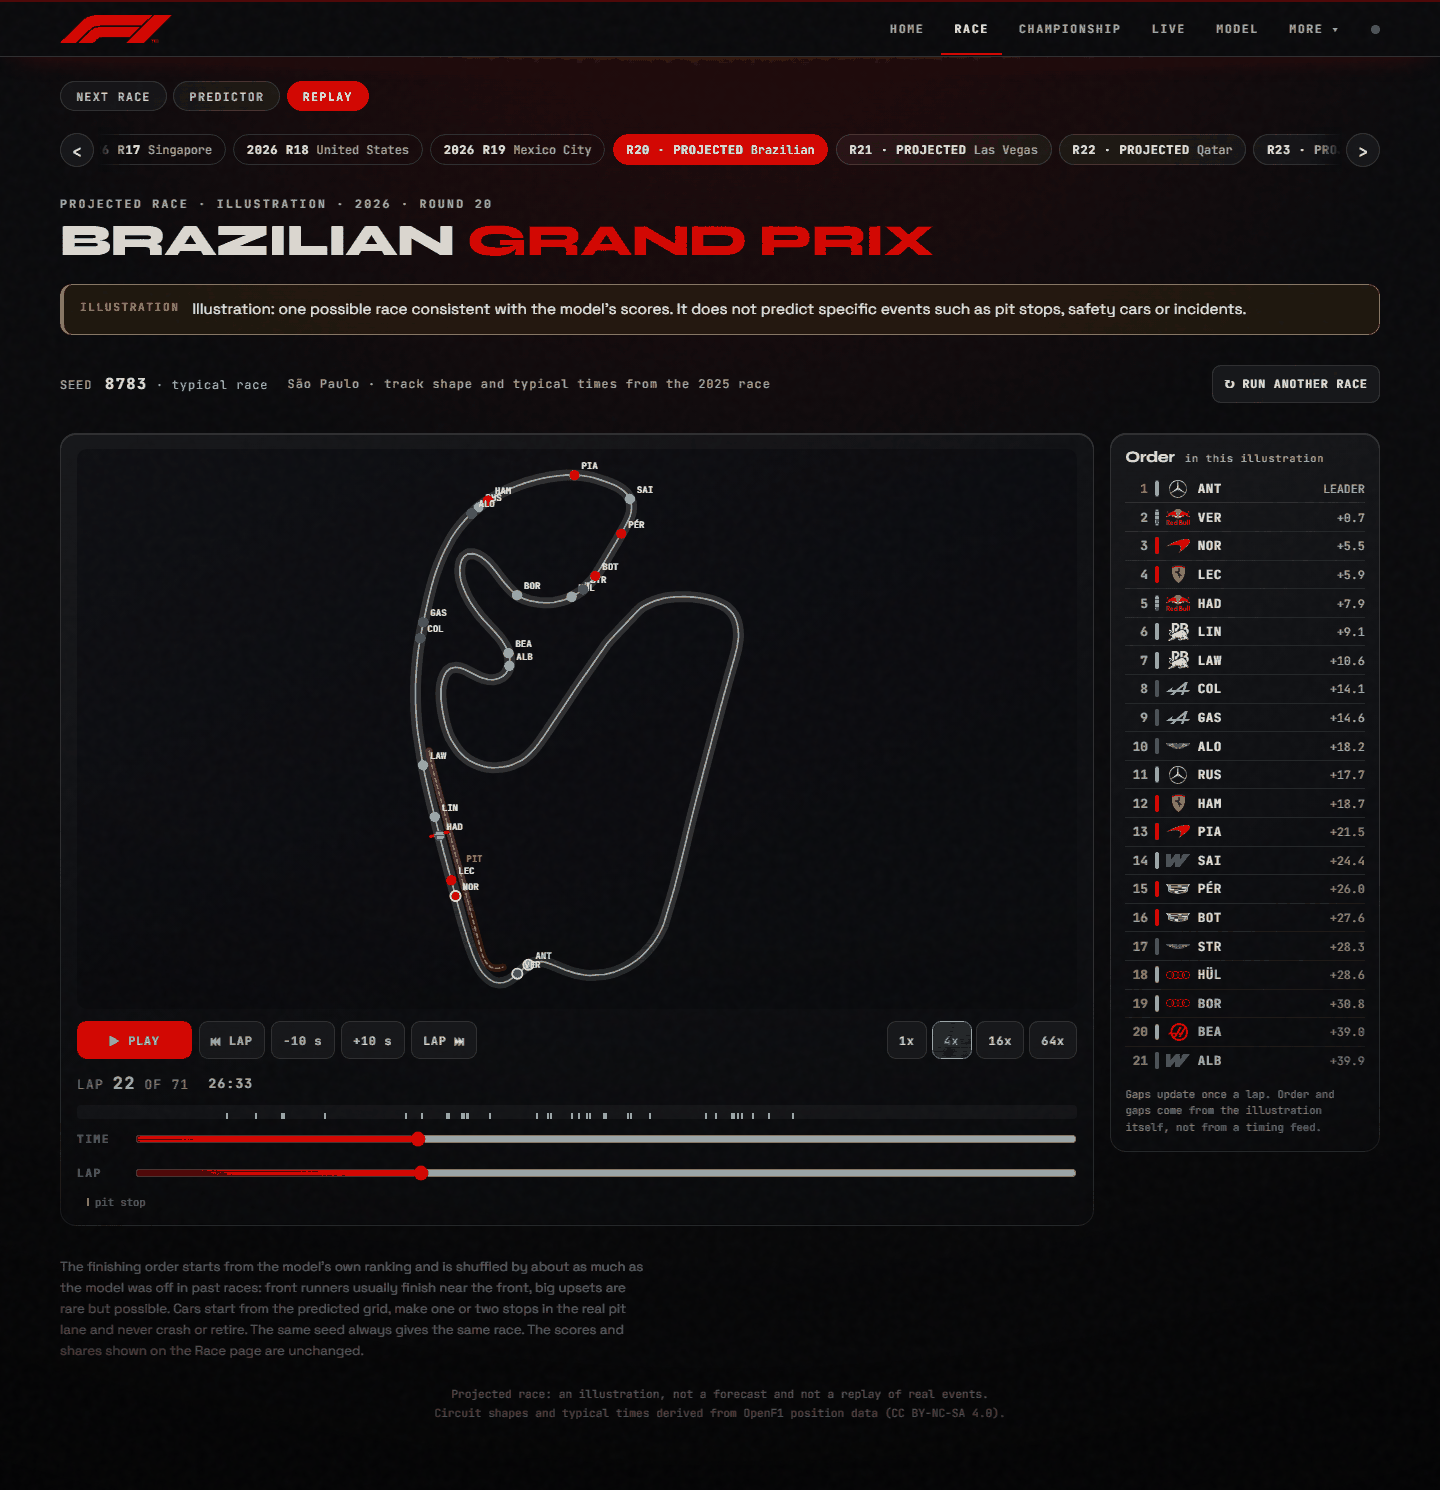
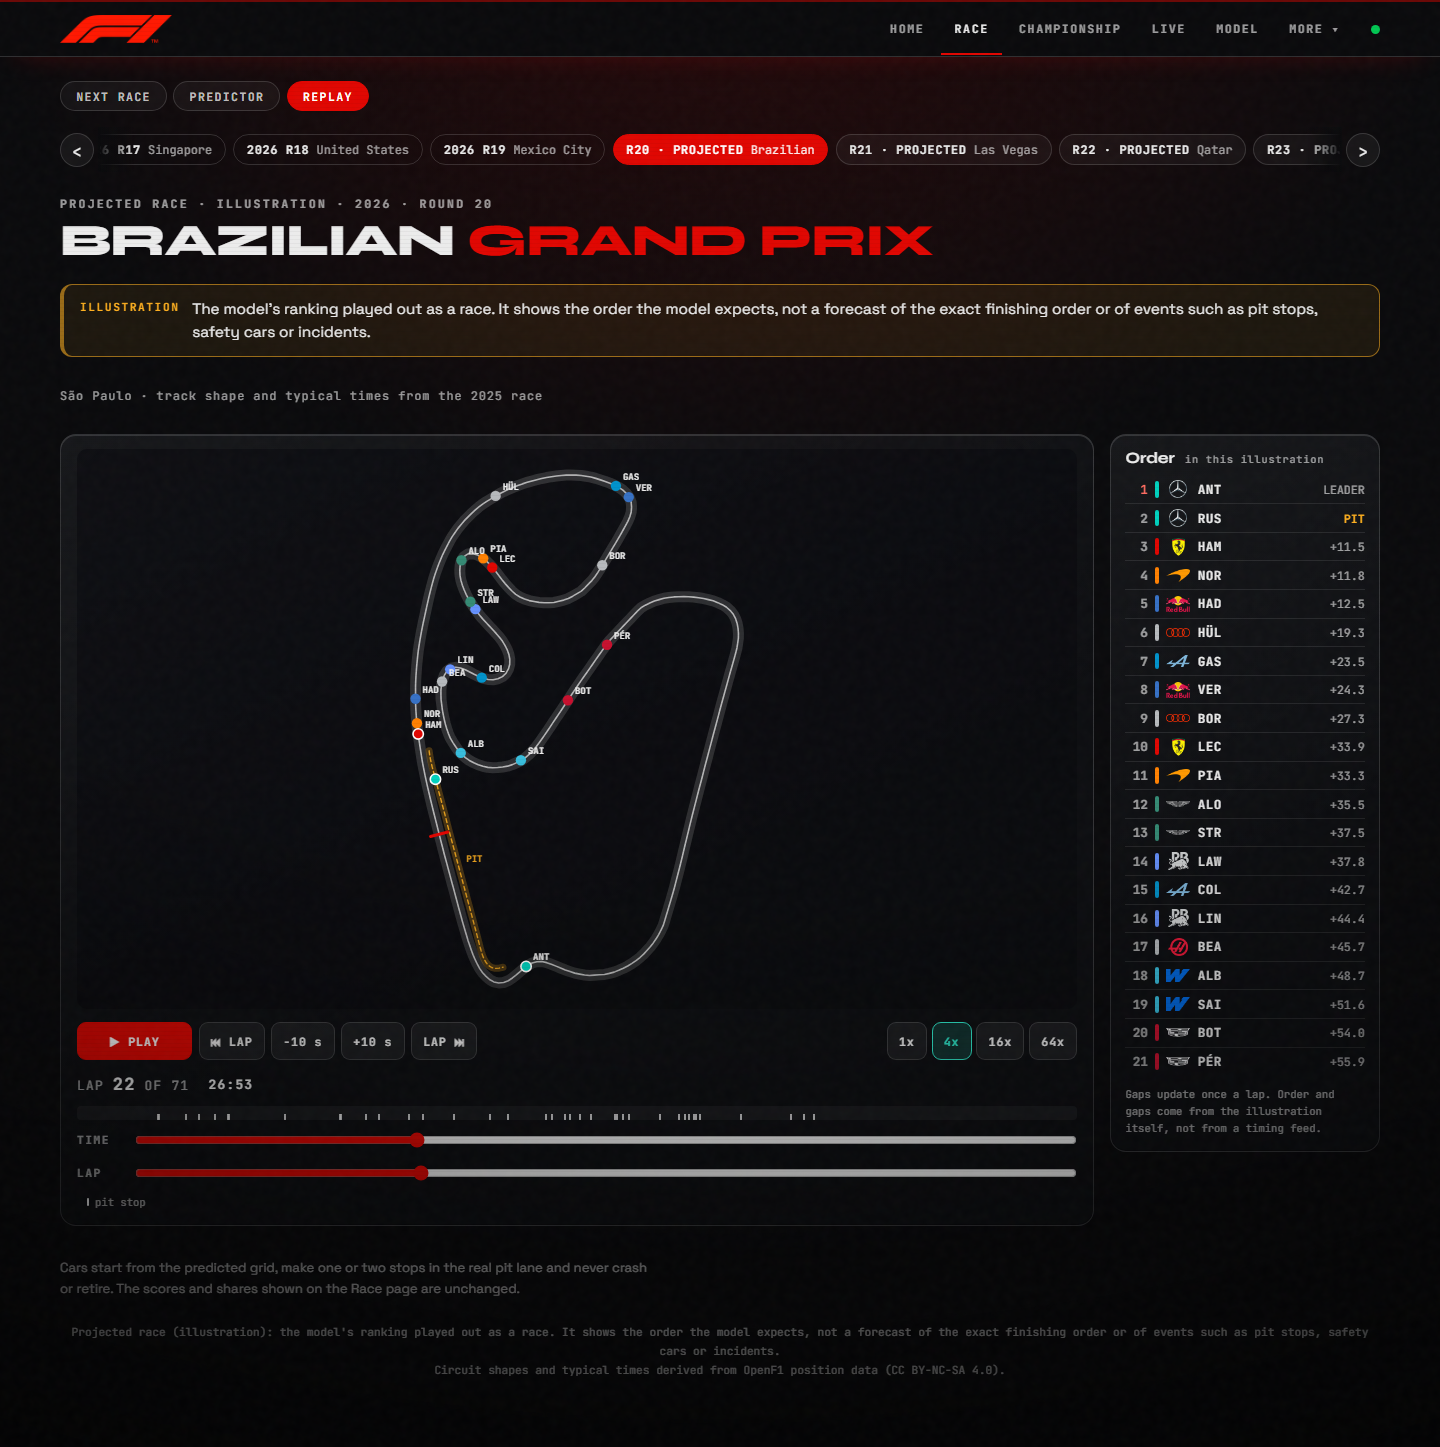
feat(projected): play out the model's order (Race page table order); drop seed, 'run another race' and 'typical race'; new copy

diff --git a/frontend/src/lib/projectedRace.js b/frontend/src/lib/projectedRace.js
@@ -1,14 +1,18 @@
 // "Projected race": ONE illustrative race on a real circuit, built in the browser from a circuit pack, the predicted grid and the
 // model's existing scores. It returns the replay file format (see backend/scripts/build_replay.py) so the same player draws it.
 //
-// This is an illustration, not a forecast. Nothing here changes a score or a share, and nothing in the output is shown as a probability.
+// NOTE: the site now plays out the model's own order (finishOrder = the Race page table order, see projectedInputs.js) with DEFAULT_SEED.
+// The random draw below (rankAnchoredOrder, drawnOrder, typicalSeed, randomSeed, DRAW_PARAMS) is kept but UNUSED by the site, so a
+// "run another race" mode can come back later. It is still covered by the unit tests.
+//
+// This is an illustration, not a forecast. Nothing here changes a score or a share, and nothing in the output is shown as a percentage.
 // What is drawn: dots running lap by lap from the predicted grid, a finishing order drawn from the model's scores, 1-2 pit stops on the
 // real pit-lane path, lapped cars at the back. What is NOT modelled: crashes, retirements, safety cars, red flags, weather, penalties.
 //
 // How the finishing order is drawn (rank-anchored): start from the model's own ranking for the race (the highest win score takes P1, the rest
 // follow by podium score), add noise to each rank whose size comes from the model's real backtest errors for that rank (a place or two
 // most of the time, now and then a big upset), and sort. So front runners usually finish near the front, big upsets are rare but possible, and the back of the
-// field stays at the back. Drivers with no model score are not simulated. The scores are used for the ranking only; nothing is shown as a probability.
+// field stays at the back. Drivers with no model score are not simulated. The scores are used for the ranking only; nothing is shown as a percentage.
 // (An earlier draw weighted every driver by its scores plus a floor and was too flat below the top six: see analysis/25_projected_draw_compare.mjs.)
 //
 // How the race is shaped: finishing times are fixed first (the drawn order plus random gaps, some cars lapped). Each driver's race pace is
@@ -28,7 +32,10 @@ const PIT_MPS = 21;               // pit lane speed limit, m/s (about 75 km/h)
 const AFTER = 0.8;                // fraction of a lap a car cruises after its flag, then parks
 
 /** Shown with every projected race. */
-export const PROJECTED_LABEL = "Illustration: one possible race consistent with the model's scores. It does not predict specific events such as pit stops, safety cars or incidents.";
+export const PROJECTED_LABEL = "The model's ranking played out as a race. It shows the order the model expects, not a forecast of the exact finishing order or of events such as pit stops, safety cars or incidents.";
+
+/** The projected race always uses this seed (it only varies gaps, stops and pace noise, never the finishing order). */
+export const DEFAULT_SEED = 1;
 
 // ── seeded randomness
 export const mulberry32 = (seed) => {
@@ -198,9 +205,11 @@ const quantileSample = (q, u) => {                 // inverse CDF through (0.1, 
  * @param grid   [{ code, name, team, colour, number? }] in predicted grid order (pole first)
  * @param scores { [code]: { win, podium } } the model's existing scores; drivers without a finite podium score are not simulated
  * @param seed   integer; the same seed gives the same race
+ * @param finishOrder optional driver codes in finishing order (the Race page table order). When given, the race ends in exactly this order;
+ *                    when omitted the order is drawn (rankAnchoredOrder, currently unused by the site)
  * @returns the replay file object (format v1) plus `race.projected` = { seed, order, ... }
  */
-export const generateProjectedRace = (pack, grid, scores, seed) => {
+export const generateProjectedRace = (pack, grid, scores, seed, finishOrder = null) => {
   if (!pack?.pit) throw new Error("This circuit pack has no pit lane path");
   const rnd = mulberry32(seed);
   const tr = buildTrack(pack), V = tr.V, K = pack.laps, L = tr.L, Z = tr.zones.length;
@@ -210,9 +219,14 @@ export const generateProjectedRace = (pack, grid, scores, seed) => {
   const lapRef = pack.lap_s * (1 + 0.008 * normal(rnd));
   const loss0 = Math.min(30, Math.max(12, pack.pit_loss_s ?? 21));
 
-  // 1. finishing order drawn from the model's scores
+  // 1. finishing order: the model's table order when given, otherwise drawn from the model's scores
   const codes = racers.map((r) => r.code);
-  const order = rankAnchoredOrder(codes, scores, rnd);                 // order[p] = racer index finishing in place p+1
+  const drawn = rankAnchoredOrder(codes, scores, rnd);                 // always drawn, so the rest of the random stream is the same either way
+  let order = drawn;                                                   // order[p] = racer index finishing in place p+1
+  if (finishOrder) {
+    order = finishOrder.filter((c) => codes.includes(c)).map((c) => codes.indexOf(c));
+    if (order.length !== N || new Set(order).size !== N) throw new Error("The finishing order must list every simulated driver once");
+  }
   const place = new Array(N); order.forEach((c, p) => { place[c] = p; });
 
   // 2. finishing gaps: who is lapped, and the target time of each car's last crossing

diff --git a/frontend/src/components/ProjectedRace.jsx b/frontend/src/components/ProjectedRace.jsx
@@ -1,11 +1,10 @@
-import { useMemo, useState } from "react";
+import { useMemo } from "react";
 import Panel from "./DashPanel.jsx";
 import ReplayPlayer from "./ReplayPlayer.jsx";
 import { SkeletonList } from "../shared.jsx";
 import { useRaceRows } from "../lib/useRaceRows.js";
 import { usePackIndex, usePack, useProjectedRace } from "../lib/useProjectedRace.js";
-import { randomSeed, typicalSeed, PROJECTED_LABEL } from "../lib/projectedRace.js";
-import { inputsFromRows } from "../lib/projectedInputs.js";
+import { DEFAULT_SEED, PROJECTED_LABEL } from "../lib/projectedRace.js";
 import "../pages/replay.css";
 
 const Unavailable = ({ title = "Projected race not available", children }) => (
@@ -14,10 +13,9 @@ const Unavailable = ({ title = "Projected race not available", children }) => (
   </Panel>
 );
 
-// One illustrative race for an upcoming round, drawn in the browser from the model's existing scores and replayed by the same player as
+// One illustrative race for an upcoming round, played out in the browser in the order of the Race page table and replayed by the same player as
 // the recorded races. Nothing here is a forecast and no score or share on the site is changed by it.
 const ProjectedRace = ({ race }) => {
-  const [picked, setPicked] = useState(null);                  // null = the typical race for these scores
   const index = usePackIndex();
   const entry = index.status === "ready" ? index.circuits[race.circuitRef] || null : null;
   const packState = usePack(entry);
@@ -25,14 +23,7 @@ const ProjectedRace = ({ race }) => {
   const { res, slow, retry } = useRaceRows(raceList);
   const rowsState = res[race.raceId];
   const rows = rowsState?.status === "ready" ? rowsState.rows : null;
-  const typical = useMemo(() => {
-    if (!rows) return null;
-    const { grid, scores } = inputsFromRows(rows);
-    const codes = grid.map((g) => g.code).filter((c) => Number.isFinite(scores[c].podium));
-    return codes.length > 1 ? typicalSeed(codes, scores) : null;
-  }, [rows]);
-  const seed = picked ?? typical ?? 1;
-  const { rep, error } = useProjectedRace(packState.pack, rows, seed);
+  const { rep, error } = useProjectedRace(packState.pack, rows, DEFAULT_SEED);
 
   if (index.status === "loading") return <SkeletonList rows={4} metrics={1} />;
   if (index.status === "unavailable") return <Unavailable>The circuit files are not available on this deployment (no replay location is configured, or it could not be reached). Nothing else is affected.</Unavailable>;
@@ -62,14 +53,11 @@ const ProjectedRace = ({ race }) => {
         <p>{PROJECTED_LABEL}</p>
       </div>
       <div className="pr-bar">
-        <span className="pr-seed">SEED <b>{seed}</b>{picked === null && <em> · typical race</em>}</span>
         <span className="pr-basis">{race.circuit} · track shape and typical times from the {entry.year} race</span>
-        <button type="button" className="rp-btn pr-again" onClick={() => setPicked(randomSeed())}>↻ RUN ANOTHER RACE</button>
       </div>
-      <ReplayPlayer key={`${race.raceId}-${seed}`} rep={rep} projected />
+      <ReplayPlayer key={race.raceId} rep={rep} projected />
       <p className="pr-how">
-        The finishing order starts from the model's own ranking and is shuffled by about as much as the model was off in past races: front runners usually finish near the front, big upsets are rare but possible.
-        Cars start from the predicted grid, make one or two stops in the real pit lane and never crash or retire. The same seed always gives the same race.
+        Cars start from the predicted grid, make one or two stops in the real pit lane and never crash or retire.
         The scores and shares shown on the Race page are unchanged.
       </p>
     </>

diff --git a/frontend/src/pages/replay.css b/frontend/src/pages/replay.css
@@ -67,20 +67,16 @@
 .rp-board li.nodata { opacity: 0.75; }
 .rp-board li.nodata em { color: #ffb020; font-weight: 700; font-size: 0.66rem; letter-spacing: 0.04em; }
 
-/* projected race: the always-visible illustration notice, seed row and method note */
+/* projected race: the always-visible illustration notice, basis row and method note */
 .pr-notice { display: flex; gap: 0.8rem; align-items: flex-start; padding: 0.8rem 1rem; border: 1px solid rgba(255, 176, 32, 0.55); border-left-width: 4px; border-radius: 12px; background: rgba(255, 176, 32, 0.08); }
 .pr-notice b { font-family: var(--mono); font-size: 0.7rem; letter-spacing: 0.14em; color: #ffb020; padding-top: 0.15rem; white-space: nowrap; }
 .pr-notice p { font-size: 0.95rem; line-height: 1.5; color: var(--ink); margin: 0; }
 .pr-bar { display: flex; flex-wrap: wrap; align-items: center; gap: 0.6rem 1.2rem; margin: 0.8rem 0; font-family: var(--mono); font-size: 0.74rem; letter-spacing: 0.08em; color: var(--hm-muted); }
-.pr-seed b { color: var(--ink); font-size: 0.95rem; letter-spacing: 0.1em; margin-left: 0.3rem; font-variant-numeric: tabular-nums; }
-.pr-again { margin-left: auto; }
 .pr-how { margin-top: 0.8rem; font-size: 0.82rem; line-height: 1.6; color: var(--hm-muted); max-width: 70ch; }
 @media (max-width: 900px) {
   .pr-notice { flex-direction: column; gap: 0.3rem; }
-  .pr-again { margin-left: 0; width: 100%; }
 }
 
 /* the TIME / LAP sliders: label on the left, slider filling the rest (a later generic label rule had turned this into stacked blocks) */
 .rp .rp-range { display: grid; grid-template-columns: 3rem minmax(0, 1fr); align-items: center; gap: 0.6rem; }
 .rp .rp-range span { white-space: nowrap; }
-.pr-seed em { font-style: normal; color: var(--teal); letter-spacing: 0.08em; }

diff --git a/frontend/src/lib/projectedInputs.js b/frontend/src/lib/projectedInputs.js
@@ -1,9 +1,11 @@
-import { driverCode, teamIdOf, teamColor } from "./homeModel.js";
+import { driverCode, teamIdOf, teamColor, rankRows } from "./homeModel.js";
 
 /**
  * Turn the rows the page already fetches for an upcoming race (POST /whatif, predicted grid) into the generator's inputs.
  * grid   = [{ code, name, team, colour }] in predicted grid order (pole first)
  * scores = { [code]: { win, podium } } the rows' existing raw model scores, passed through untouched
+ * order  = driver codes in the order of the Race page's "Full forecast" table (rankRows: podium score, ties by win score), the order the
+ *          projected race plays out
  * A row without a finite podium score still appears in `grid`; the generator leaves it out of the race.
  */
 export const inputsFromRows = (rows) => {
@@ -17,7 +19,9 @@ export const inputsFromRows = (rows) => {
       const teamId = teamIdOf(r);
       return { code, name: r.driver_name, team: teamId || r.team, colour: teamColor(teamId).replace("#", ""), row: r };
     });
+  const codeOfName = new Map(list.map((g) => [g.name, g.code]));
   return {
+    order: rankRows(rows).map((r) => codeOfName.get(r.driver_name)),
     grid: list.map((g) => ({ code: g.code, name: g.name, team: g.team, colour: g.colour })),
     scores: Object.fromEntries(list.map((g) => [g.code, { win: g.row.win_probability ?? 0, podium: g.row.podium_probability }])),
   };

diff --git a/frontend/src/lib/useProjectedRace.js b/frontend/src/lib/useProjectedRace.js
@@ -50,12 +50,12 @@ export const usePack = (entry) => {
   return s.file === file ? s : { status: "loading", pack: null };
 };
 
-/** One projected race for (pack, model rows, seed), decoded for the existing player. Same inputs always give the same race. */
+/** One projected race for (pack, model rows, seed), decoded for the existing player. It finishes in the Race page table order. Same inputs always give the same race. */
 export const useProjectedRace = (pack, rows, seed) => useMemo(() => {
   if (!pack || !rows) return { rep: null, error: null };
   try {
-    const { grid, scores } = inputsFromRows(rows);
-    const j = generateProjectedRace(pack, grid, scores, seed);
+    const { grid, scores, order } = inputsFromRows(rows);
+    const j = generateProjectedRace(pack, grid, scores, seed, order);
     return { rep: decodeReplay(j), error: null };
   } catch (e) {
     return { rep: null, error: e.message || "Could not build the illustration" };

diff --git a/frontend/src/pages/ReplayPage.jsx b/frontend/src/pages/ReplayPage.jsx
@@ -73,7 +73,7 @@ const ReplayPage = () => {
       {manifest.status === "ready" && (
         <p className="rp-credit">
           {projectedRace
-            ? <>Projected race: an illustration, not a forecast and not a replay of real events.<br />Circuit shapes and typical times derived from OpenF1 position data (CC BY-NC-SA 4.0).</>
+            ? <>Projected race (illustration): the model's ranking played out as a race. It shows the order the model expects, not a forecast of the exact finishing order or of events such as pit stops, safety cars or incidents.<br />Circuit shapes and typical times derived from OpenF1 position data (CC BY-NC-SA 4.0).</>
             : <>Replay of real recorded positions, interpolated; not official timing.<br />{manifest.license || CREDIT}</>}
         </p>
       )}

diff --git a/docs/projected/README.md b/docs/projected/README.md
@@ -1,15 +1,25 @@
 # Projected race
 
-One illustrative race for an upcoming round, on the Replay page (strip chips marked `PROJECTED`). It is generated in the browser, replayed by
-the same player as the recorded races, and never read as a forecast. It changes no score, share or probability anywhere on the site.
+The model's ranking played out as a race, for an upcoming round, on the Replay page (strip chips marked `PROJECTED`). It is generated in the
+browser and replayed by the same player as the recorded races. It changes no score or share anywhere on the site.
 
-**What it is:** dots running lap by lap on the real circuit, starting from the model's predicted grid, finishing in an order drawn from the
-the model's own ranking shuffled by noise set from the model's real backtest errors (a "rank-anchored" draw: see the header of `frontend/src/lib/projectedRace.js`), with 1-2 stops on the real pit
-lane path, lapped cars at the back, and a seed shown on screen (same seed = same race; "Run another race" draws a new one).
-The race opens on a **typical** seed (the most common outcome): of 10,000 seeds, keep only those where the model's rank-1 driver
-(`modelRanking()[0]`) wins, then take the one whose finishing order is closest to the median order (each driver's mean finishing place
-over all 10,000 seeds). It is deterministic and computed in the browser from the same scores (~0.1-0.2 s). Brazil (rank-1 ANT, who wins ~28% of
-draws): seed 6590, order ANT VER LEC HAD RUS HAM NOR PIA BOR LAW ...
+**What it shows:** dots running lap by lap on the real circuit, starting from the model's predicted grid and **finishing in exactly the order of
+the Race page's "Full forecast" table** (`rankRows()` in `homeModel.js`: podium score, ties by win score), so the animation and the page always
+agree for every circuit. Gaps grow monotonically with the finishing order, cars make 1-2 stops in the real pit lane, lapped cars sit at the back.
+There is no seed display, no "Run another race" button and no "typical race" label; the race always uses `DEFAULT_SEED` (1), which only varies
+gaps, stop timing and pace noise, never the order. The ILLUSTRATION label stays, with this copy:
+"The model's ranking played out as a race. It shows the order the model expects, not a forecast of the exact finishing order or of events such as
+pit stops, safety cars or incidents." The Replay page footer says the same.
+
+**How the order gets in:** `inputsFromRows(rows).order` lists driver codes in table order and `generateProjectedRace(pack, grid, scores, seed, finishOrder)`
+ends the race in that order. `modelRanking()` (win score first) is no longer used for the order; on the saved model rows it differs from the table for
+Brazil (the last three places), Las Vegas (VER and ANT swap at the top) and Abu Dhabi (the same swap, plus the last three); Qatar is identical.
+The table wins in every case.
+
+## The random draw (kept, unused)
+The earlier version drew the order at random (rank-anchored noise fitted to the model's backtest errors, a seed on screen, "Run another race", a
+"typical" seed chosen among 10,000). That code is still in `projectedRace.js` (`rankAnchoredOrder`, `drawnOrder`, `typicalSeed`, `randomSeed`,
+`DRAW_PARAMS`) and its tests still run, but the site does not call it, so a random mode can come back later.
 
 ## How the draw was set (analysis/23-26_projected_draw_*)
 `analysis/23_projected_draw_profile.py` measures the model's real error by predicted rank over the 43 backtest races (predicted-grid condition,
@@ -19,19 +29,18 @@ retirements removed). `analysis/24_projected_draw_fit.py` fits a first set of no
 place seen in the real races for their rank, and the average finishing place never improves as the model rank gets worse (to within 0.3 places).
 `analysis/25_projected_draw_compare.mjs` prints the old-vs-new table (`analysis/out/projected_draw_compare.txt`).
 **What it is not:** no crashes, retirements, safety cars or red flags; a driver with no model score is not simulated.
-The label "Illustration: one possible race consistent with the model's scores. It does not predict specific events such as pit stops, safety
-cars or incidents." is always on screen.
+The ILLUSTRATION label is always on screen.
 
 ## Files
 | | |
 |---|---|
 | `scripts/build_circuit_packs.py` | reads the replay files, writes `pack-<circuitRef>.json` (3-4 KB each) and `packs.json` next to them |
-| `frontend/src/lib/projectedRace.js` | pure generator `(pack, grid, scores, seed) -> replay file object`; ~120 ms for 71 laps x 20 cars |
-| `frontend/src/lib/projectedRace.test.mjs` | unit tests (`node src/lib/run-test.mjs` from `frontend/`) |
+| `frontend/src/lib/projectedRace.js` | pure generator `(pack, grid, scores, seed, finishOrder?) -> replay file object`; ~120 ms for 71 laps x 20 cars |
+| `frontend/src/lib/projectedRace.test.mjs`, `projectedFixtures.mjs` | unit tests (`node src/lib/run-test.mjs` from `frontend/`); the fixtures are saved model rows for the four upcoming rounds |
 | `frontend/src/lib/projectedInputs.js`, `useProjectedRace.js`, `components/ProjectedRace.jsx` | rows -> inputs, fetching, UI |
 
 ## Try it locally
-1. Fill `frontend/public/replay-dev/` with `python backend/scripts/build_replay.py --all` (see `docs/replay/README.md`).
+1. Fill `frontend/public/replay-dev/` with `python scripts/build_replay.py --all` (see `docs/replay/README.md`).
 2. `python scripts/build_circuit_packs.py` (adds the packs and `packs.json` to that folder).
 3. Run the backend locally (`uvicorn`, port 8000) and `npm run dev` in `frontend/`, then Race > Replay > a `PROJECTED` chip.
 
